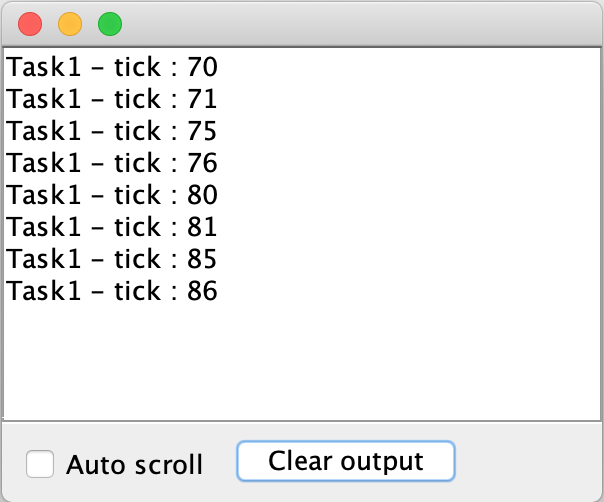
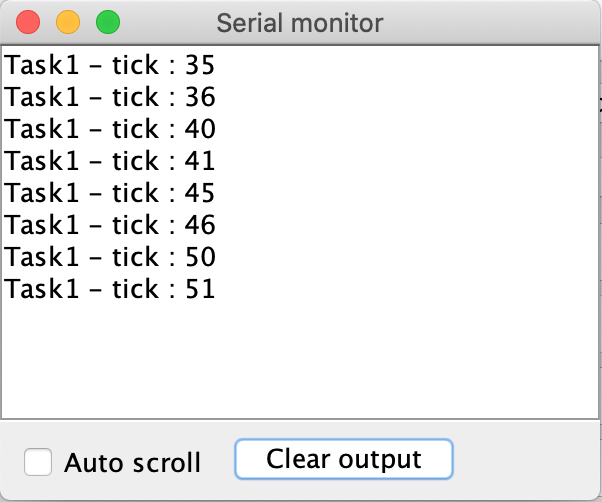
Images

Changed region(s): [[0.0, 0.0, 1.0, 1.0]]

diff --git a/src/app/MainApp.java b/src/app/MainApp.java
@@ -543,7 +543,9 @@ public class MainApp extends JFrame {
 				serialMonitorFrame.setDefaultCloseOperation(DISPOSE_ON_CLOSE);
 
 				serialMonitorFrame.setLocationRelativeTo(null);
-
+				
+				serialMonitorFrame.setTitle("Serial monitor");
+				
 				serialMonitorFrame.setSize(300, 250);
 
 				serialMonitorFrame.setVisible(true);

diff --git a/README.md b/README.md
@@ -6,5 +6,7 @@ Main application view:
 ![GitHub Logo](/images/main.png)
 
 Serial monitor window:
+/
+
 ![GitHub Logo](/images/monitor.png)
 
